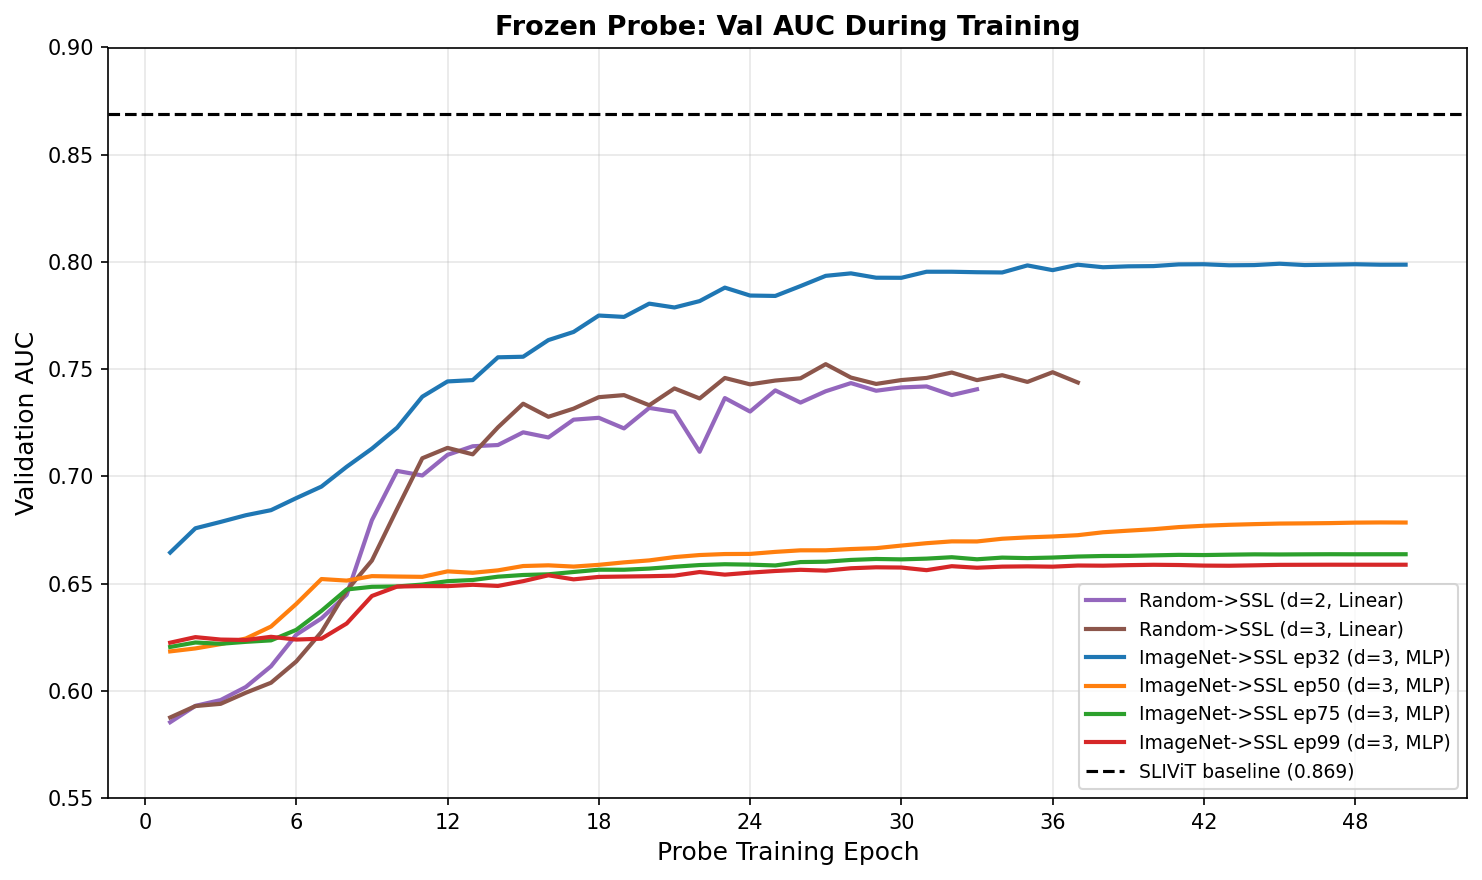
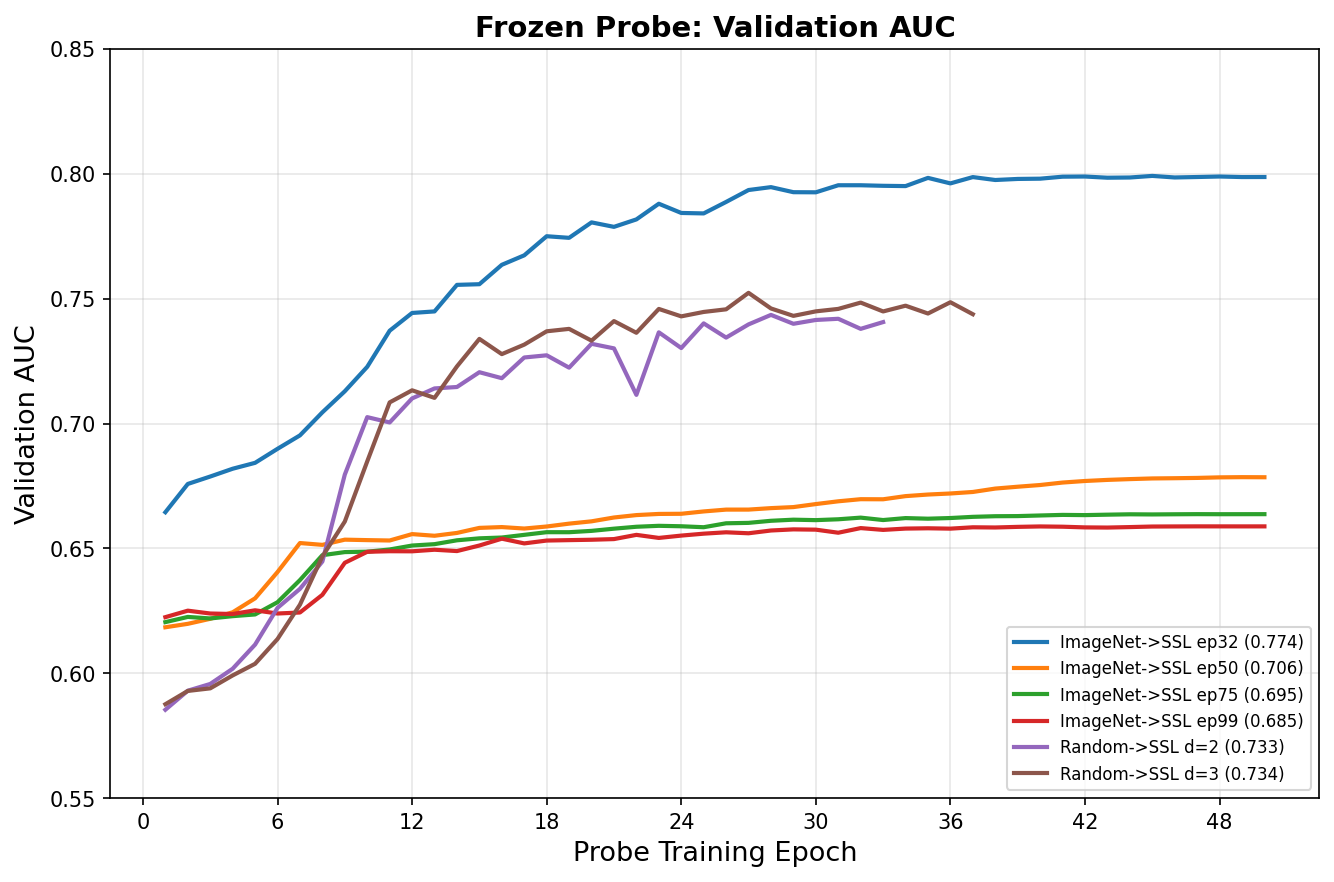
Remove all SLIViT references: not a fair comparison (different data)
- Remove SLIViT baseline from results table, key findings, motivation, references
- Regenerate all plots without SLIViT baseline line
- Hero image now shows frozen vs fine-tuned AUC curves cleanly

diff --git a/README.md b/README.md
@@ -1,6 +1,6 @@
 # I-JEPA for FairVision OCT Glaucoma Classification
 
-Self-supervised pretraining using [I-JEPA](https://github.com/facebookresearch/ijepa) (Assran et al., CVPR 2023) on [Harvard FairVision](https://github.com/Harvard-Ophthalmology-AI-Lab/FairVision) OCT data for binary glaucoma classification. Builds on our SLIViT reproduction in [SliViT_3D_OCT_Glaucoma](https://github.com/yfeng0206/SliViT_3D_OCT_Glaucoma).
+Self-supervised pretraining using [I-JEPA](https://github.com/facebookresearch/ijepa) (Assran et al., CVPR 2023) on [Harvard FairVision](https://github.com/Harvard-Ophthalmology-AI-Lab/FairVision) OCT data for binary glaucoma classification.
 
 ![Downstream AUC Curves](results/downstream_auc_curves.png)
 
@@ -8,7 +8,6 @@ Self-supervised pretraining using [I-JEPA](https://github.com/facebookresearch/i
 
 | Method | Encoder Init | Encoder | Slices | Probe | Head | Test AUC |
 |--------|-------------|---------|--------|-------|------|----------|
-| **SLIViT baseline** | Kermany OCT | ConvNeXt+ViT | 32 | 5-layer ViT | Linear | **0.869** |
 | **I-JEPA unfrozen d=3** | **ImageNet→SSL ep32** | **ViT-B/16 fine-tune** | **32** | **3 blocks** | **MLP** | **0.829** |
 | I-JEPA unfrozen d=3 | ImageNet→SSL ep32 | ViT-B/16 fine-tune | 64 | 3 blocks | MLP | 0.829 |
 | I-JEPA unfrozen d=2 | ImageNet→SSL ep32 | ViT-B/16 fine-tune | 64 | 2 blocks | MLP | 0.829 |
@@ -27,7 +26,7 @@ Self-supervised pretraining using [I-JEPA](https://github.com/facebookresearch/i
 
 1. **Fine-tuning is the key lever**: Unfreezing the encoder gives +5.5% AUC (0.774 → 0.829 for ImageNet-init), confirming that task-specific adaptation matters more than better pretraining or probe architecture.
 
-2. **ImageNet→SSL + fine-tune is our best approach**: 0.829 test AUC, closing the gap to SLIViT (0.869) to 4.0%. All 4 unfrozen MLP configs cluster at 0.828-0.829 — neither deeper probe (d=3 vs d=2) nor more slices (64 vs 32) help.
+2. **ImageNet→SSL + fine-tune is our best approach**: 0.829 test AUC. All 4 unfrozen MLP configs cluster at 0.828-0.829 — neither deeper probe (d=3 vs d=2) nor more slices (64 vs 32) help.
 
 3. **ImageNet init helps frozen probe** (+4%): 0.774 (ImageNet→SSL ep32) vs 0.734 (Random→SSL), but only at early pretraining epochs.
 
@@ -50,9 +49,7 @@ Self-supervised pretraining using [I-JEPA](https://github.com/facebookresearch/i
 
 ## Motivation
 
-Our SLIViT experiments reached 0.869 test AUC using a ConvNeXt feature extractor pretrained on Kermany OCT and a ViT integrator trained on 6K labeled FairVision volumes. Two bottlenecks limited further improvement: the ConvNeXt features were pretrained on a different task (not glaucoma), and the ViT integrator was trained from scratch on a small labeled dataset.
-
-I-JEPA addresses both by learning representations directly from unlabeled OCT data through masked prediction in representation space. We implement two approaches, with patch-level as the primary approach.
+I-JEPA learns representations directly from unlabeled OCT data through masked prediction in representation space. No hand-crafted augmentations are needed. We implement two approaches, with patch-level as the primary approach.
 
 ### Patch-level I-JEPA (primary)
 
@@ -96,5 +93,4 @@ results/                          # Training curves, plots, raw data
 ## References
 
 - Assran et al., "Self-Supervised Learning from Images with a Joint-Embedding Predictive Architecture" ([paper](https://arxiv.org/abs/2301.08243), [code](https://github.com/facebookresearch/ijepa))
-- Avram et al., "SLIViT: a general AI framework for clinical-feature diagnosis from limited 3D biomedical-imaging data" ([paper](https://pubmed.ncbi.nlm.nih.gov/38045283/), [code](https://github.com/cozygene/SLIViT))
 - Luo et al., "Harvard Ophthalmology AI-Lab FairVision Dataset" ([paper](https://arxiv.org/abs/2310.02492), [code](https://github.com/Harvard-Ophthalmology-AI-Lab/FairVision))

diff --git a/docs/experiments/downstream/unfrozen/README.md b/docs/experiments/downstream/unfrozen/README.md
@@ -145,4 +145,4 @@ Best epoch: 15 (val AUC 0.826). Test AUC **0.828** — our best result so far. I
 | Unfrozen, ImageNet-init, d=2 s64 | 0.832 | 0.829 | Fine-tuned |
 | **Unfrozen, ImageNet-init, d=3 s32** | **0.828** | **0.829** | **Fine-tuned** |
 
-ImageNet-init + fine-tuning results are clustered at **0.828-0.829 test AUC** across all configs. Neither deeper probe (d=3 vs d=2) nor more slices (64 vs 32) provide meaningful improvement. The gap to SLIViT (0.869) is **4.0%** — the encoder representations are the ceiling, not the probe architecture or slice count.
+ImageNet-init + fine-tuning results are clustered at **0.828-0.829 test AUC** across all configs. Neither deeper probe (d=3 vs d=2) nor more slices (64 vs 32) provide meaningful improvement. The encoder representations are the ceiling, not the probe architecture or slice count.
